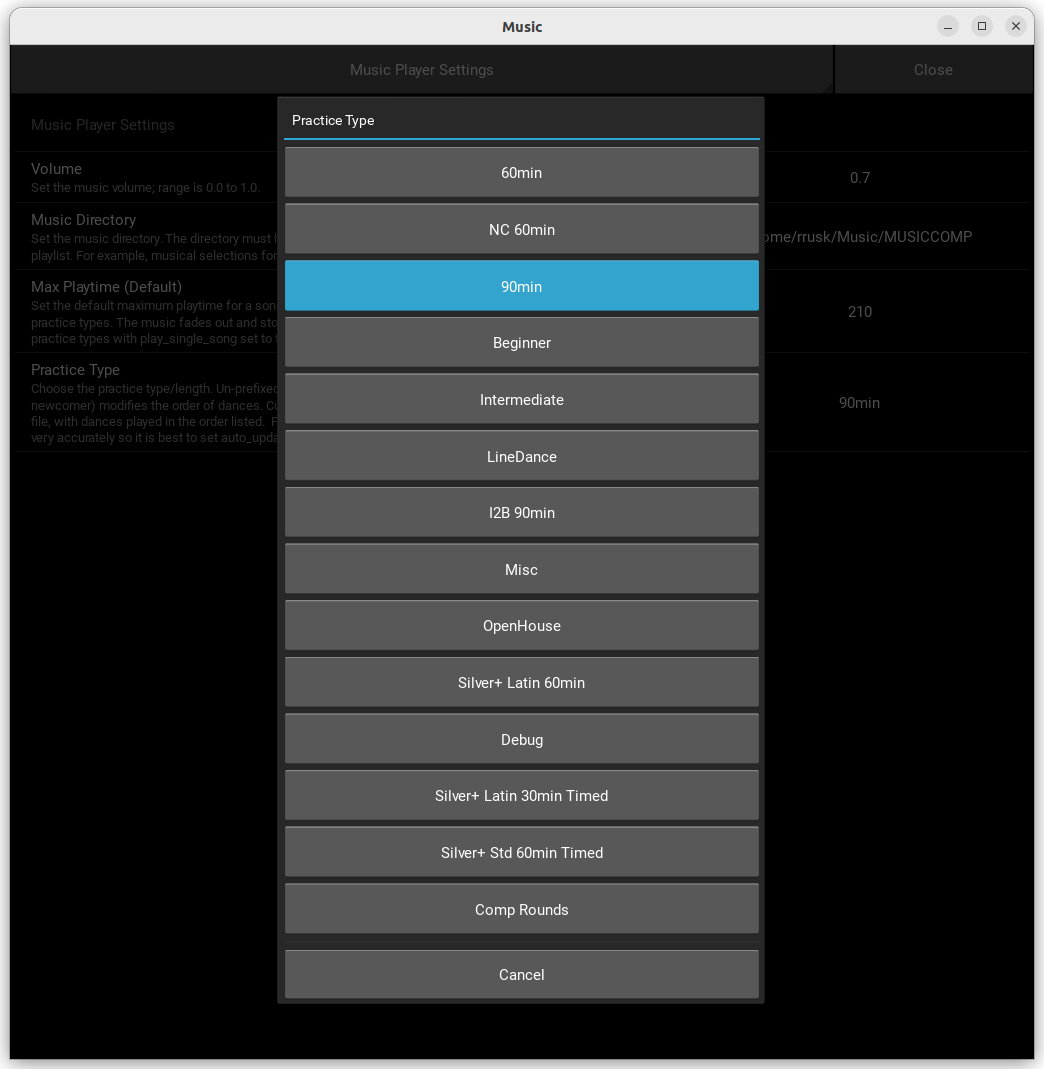
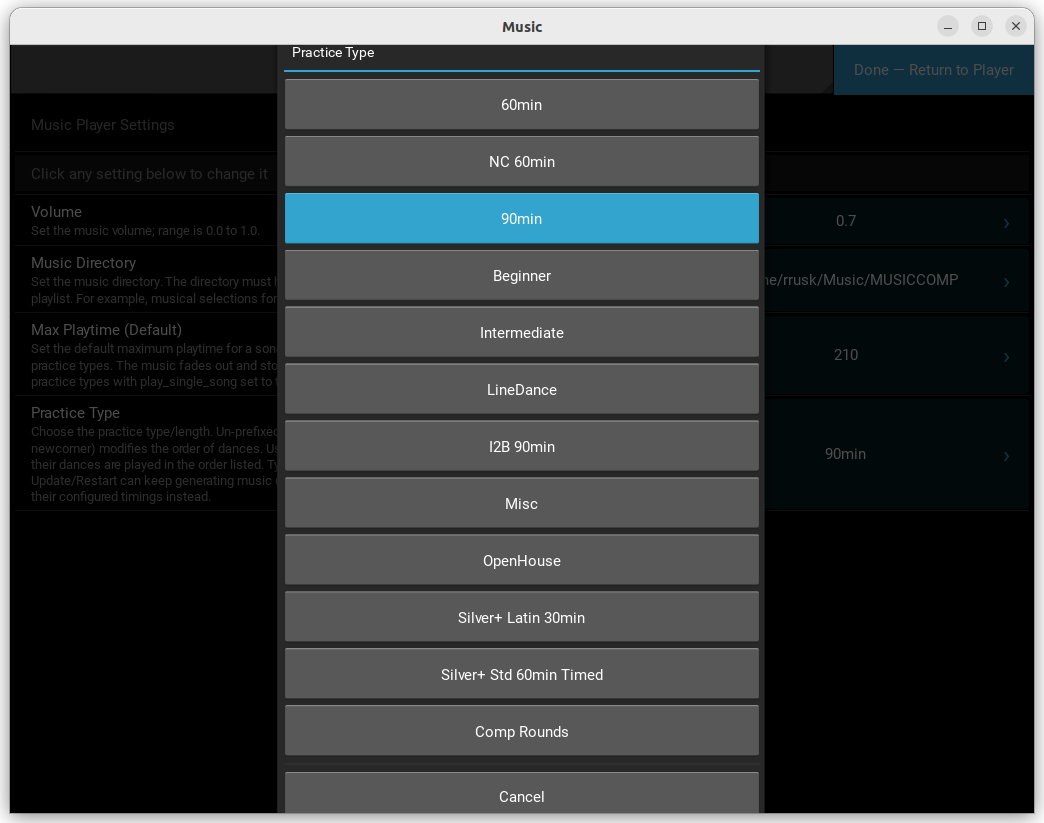
Improvements to the settings-panel usability

diff --git a/music_player.py b/music_player.py
@@ -84,10 +84,17 @@ from kivy.uix.label import Label
 from kivy.uix.popup import Popup
 from kivy.uix.scrollview import ScrollView
 from kivy.uix.slider import Slider
-from kivy.uix.settings import SettingsWithSpinner
+from kivy.uix.settings import (
+    SettingNumeric,
+    SettingOptions,
+    SettingPath,
+    SettingsWithSpinner,
+)
 from kivy.uix.screenmanager import ScreenManager, Screen
 from kivy.config import ConfigParser
+from kivy.graphics import Color, RoundedRectangle
 from kivy.logger import Logger
+from kivy.metrics import dp
 from tinytag import TinyTag, TinyTagException
 
 import app_paths
@@ -212,6 +219,54 @@ class RootManager(ScreenManager):
         App.get_running_app().destroy_settings()
 
 
+class EditableSettingMixin:
+    """Makes a Kivy setting value look like an interactive control."""
+
+    def __init__(self, *args, **kwargs) -> None:
+        super().__init__(*args, **kwargs)
+        self.content.padding = (dp(8), 0)
+        with self.content.canvas.before:
+            Color(47 / 255, 167 / 255, 212 / 255, 0.18)
+            self._value_background = RoundedRectangle(radius=[dp(4)])
+        self.content.bind(pos=self._position_value_background,
+                          size=self._position_value_background)
+        self._position_value_background()
+        self.content.add_widget(Label(
+            text="›", size_hint_x=None, width=dp(28),
+            font_size="24sp", color=(47 / 255, 167 / 255, 212 / 255, 1)))
+
+    def _position_value_background(self, *_args) -> None:
+        self._value_background.pos = self.content.pos
+        self._value_background.size = self.content.size
+
+
+class EditableSettingNumeric(EditableSettingMixin, SettingNumeric):
+    """Numeric setting with an explicit visual affordance."""
+
+
+class EditableSettingPath(EditableSettingMixin, SettingPath):
+    """Path setting with an explicit visual affordance."""
+
+
+class EditableSettingOptions(EditableSettingMixin, SettingOptions):
+    """Options setting with an explicit visual affordance."""
+
+
+class MusicSettings(SettingsWithSpinner):
+    """Settings panel whose editable values and exit action look actionable."""
+
+    def __init__(self, *args, **kwargs) -> None:
+        super().__init__(*args, **kwargs)
+        self.register_type("editable_numeric", EditableSettingNumeric)
+        self.register_type("editable_path", EditableSettingPath)
+        self.register_type("editable_options", EditableSettingOptions)
+
+        close_button = self.interface.menu.close_button
+        close_button.text = "Done — Return to Player"
+        close_button.background_normal = ""
+        close_button.background_color = (0.2, 0.6, 0.8, 1)
+
+
 class MusicPlayer(BoxLayout):
     """Main widget for the dance practice music player.
 
@@ -315,14 +370,18 @@ class MusicPlayer(BoxLayout):
 
     settings_json = [
         {
-            "type": "numeric",
+            "type": "title",
+            "title": "Click any setting below to change it",
+        },
+        {
+            "type": "editable_numeric",
             "title": "Volume",
             "desc": "Set the music volume; range is 0.0 to 1.0.",
             "section": "user",
             "key": "volume",
         },
         {
-            "type": "path",
+            "type": "editable_path",
             "title": "Music Directory",
             "desc": (
                 "Set the music directory. The directory must have sub-folders containing "
@@ -333,7 +392,7 @@ class MusicPlayer(BoxLayout):
             "key": "music_dir",
         },
         {
-            "type": "numeric",
+            "type": "editable_numeric",
             "title": "Max Playtime (Default)",
             "desc": (
                 "Set the default maximum playtime for a song in seconds. This can be "
@@ -345,7 +404,7 @@ class MusicPlayer(BoxLayout):
             "key": "song_max_playtime",
         },
         {
-            "type": "options",
+            "type": "editable_options",
             "title": "Practice Type",
             "desc": (
                 "Choose the practice type/length. Un-prefixed times are dances played in "
@@ -2972,7 +3031,7 @@ class MusicApp(App):
 
     def build(self) -> ScreenManager:
         """Creates and returns the root widget of the application."""
-        self.settings_cls = SettingsWithSpinner
+        self.settings_cls = MusicSettings
 
         # Create the screen manager
         self.manager = RootManager()

diff --git a/tests/test_music_player.py b/tests/test_music_player.py
@@ -13,8 +13,17 @@ os.environ["KIVY_NO_ARGS"] = "1"
 
 # Now we can safely import the application components
 # pylint: disable=wrong-import-position
-from music_player import MusicPlayer, MusicApp, PlayerConstants
+from music_player import (
+    EditableSettingNumeric,
+    EditableSettingOptions,
+    EditableSettingPath,
+    MusicPlayer,
+    MusicApp,
+    MusicSettings,
+    PlayerConstants,
+)
 from kivy.config import ConfigParser
+from kivy.uix.label import Label
 from song_cache import SongCache
 from tests.support import filesystem_is_case_sensitive
 import app_paths
@@ -2075,6 +2084,37 @@ class TestSettingsLifecycle(unittest.TestCase):
     def _set(self, **values):
         for key, value in values.items():
             self.app.config.set("user", key, str(value))
+
+    def test_settings_make_editing_and_returning_obvious(self):
+        settings = MusicSettings()
+        self.assertEqual(settings.interface.menu.close_button.text,
+                         "Done — Return to Player")
+        self.assertEqual(settings._types["editable_numeric"], EditableSettingNumeric)
+        self.assertEqual(settings._types["editable_path"], EditableSettingPath)
+        self.assertEqual(settings._types["editable_options"], EditableSettingOptions)
+
+        descriptions = MusicPlayer.settings_json
+        self.assertEqual(descriptions[0]["title"],
+                         "Click any setting below to change it")
+        self.assertEqual([item["type"] for item in descriptions[1:]], [
+            "editable_numeric", "editable_path", "editable_numeric", "editable_options"
+        ])
+
+        config = ConfigParser()
+        config.setdefaults("user", {
+            "volume": 0.7, "music_dir": "/music", "song_max_playtime": 210,
+            "practice_type": "60min",
+        })
+        panel = settings.create_json_panel(
+            "Music Player Settings", config, data=json.dumps(descriptions))
+        editable = [item for item in panel.children
+                    if isinstance(item, (EditableSettingNumeric,
+                                         EditableSettingPath,
+                                         EditableSettingOptions))]
+        self.assertEqual(len(editable), 4)
+        for item in editable:
+            self.assertIn("›", [child.text for child in item.content.children
+                                if isinstance(child, Label)])
 
     def test_settings_are_applied_at_startup(self):
         self._set(volume=0.4, music_dir="/music", song_max_playtime=180,

diff --git a/README.md b/README.md
@@ -55,8 +55,9 @@ at a practice only needs to select the prepared practice type and control playba
 
 ### Changing the Practice Type
 
-Open **Music Settings** and select the required **Practice Type**. This changes the
-sequence and number of songs played to the prepared definition for that practice.
+Open **Music Settings**, click the current **Practice Type** value, and select the required
+type. This changes the sequence and number of songs played to the prepared definition for
+that practice. Click **Done — Return to Player** when finished.
 
 ---
 
